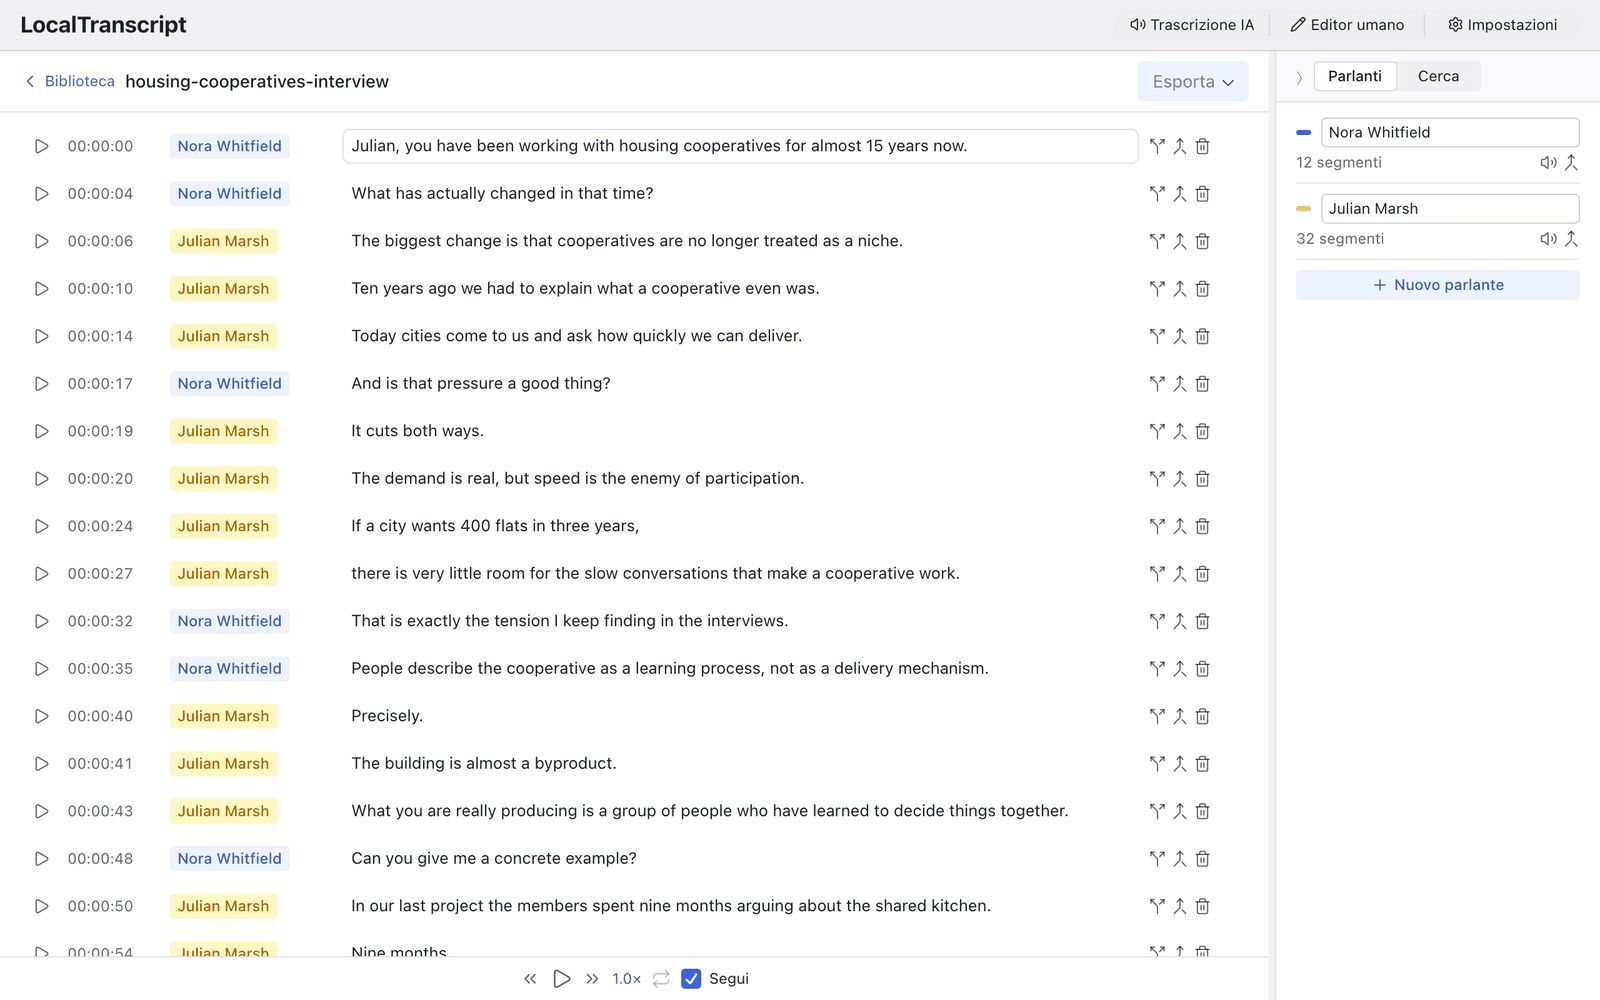
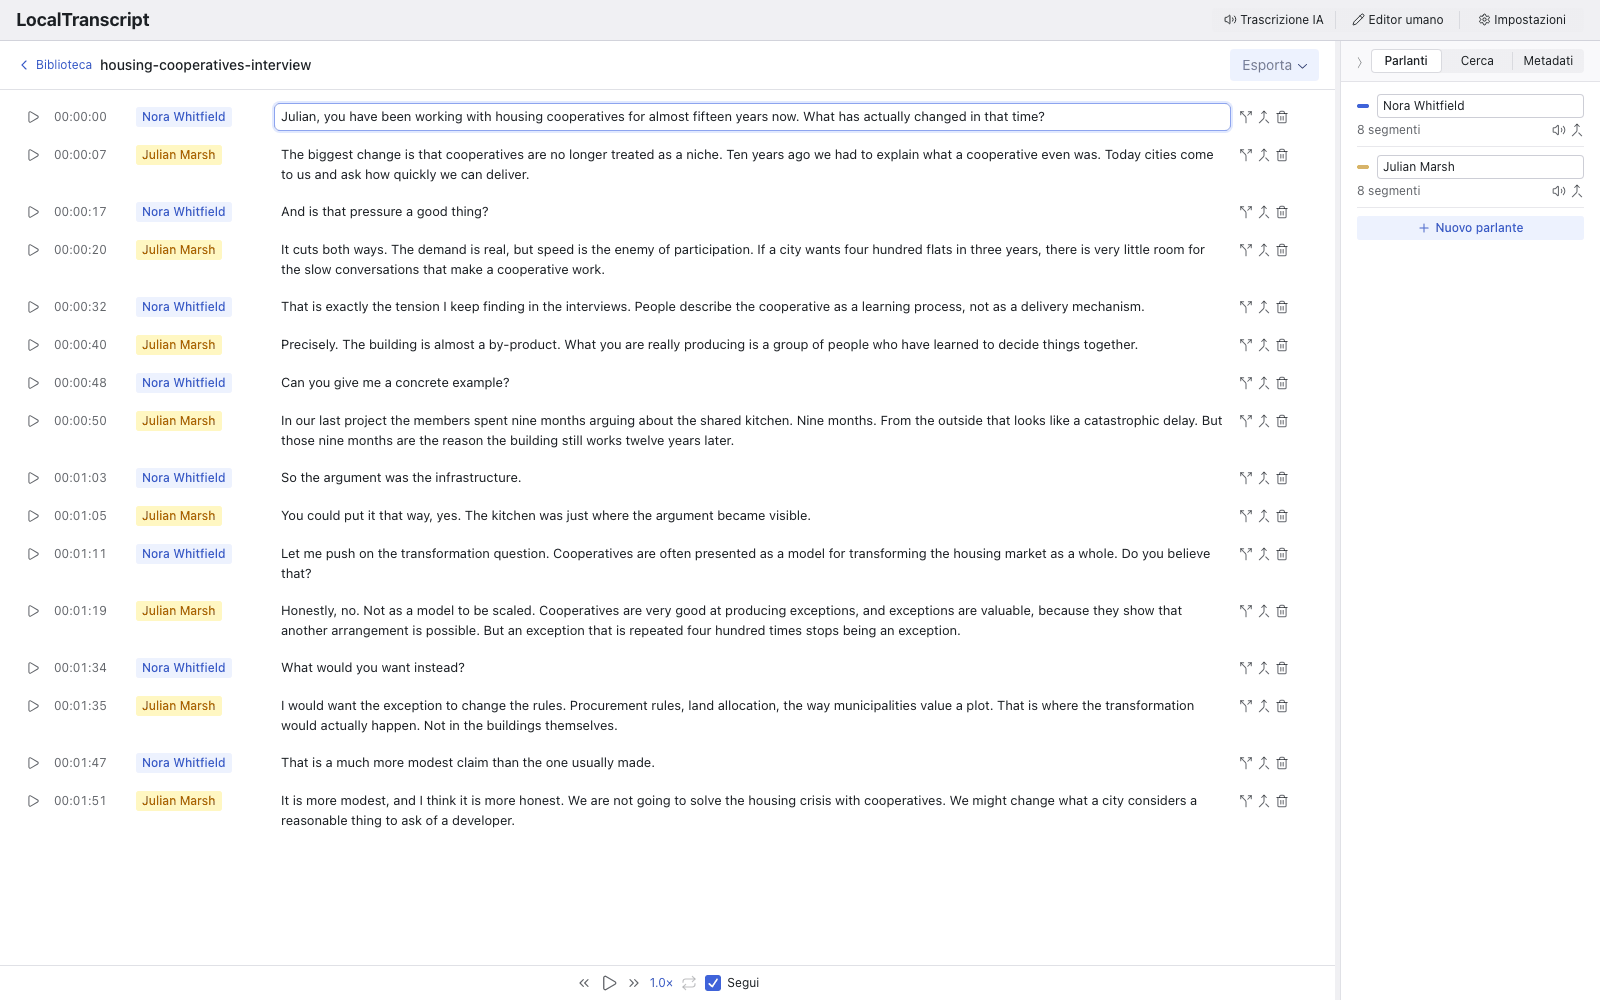
editor: Seitenleisten-Tabs passen in die Spalte (16-px-Rand, Knöpfe teilen sich die Breite, «Sprec…»/«Meta…» statt Überlauf); Website: alle Editor-Bilder mit den drei Tabs neu (hero, edit, find, export, video, zotero × 4 Sprachen)
Claude-Session: https://claude.ai/code/session_01VhoDoDyamQwRzZ3dqypMTk

diff --git a/frontend/src/components/ui.tsx b/frontend/src/components/ui.tsx
@@ -814,15 +814,20 @@ export function SearchField({ value, onChange, placeholder }: {
 }
 
 /** Segment-Umschalter (Quelle wählen, Geltungsbereich …). */
-export function SegTabs({ value, onChange, options }: {
+export function SegTabs({ value, onChange, options, fit }: {
   value: string; onChange: (v: string) => void;
+  /** In eine schmale Kopfzeile einpassen (LocalTranscript 2026-09-11):
+      volle Breite, die Knöpfe teilen sich den Platz, zu lange
+      Beschriftungen enden in «…» statt aus dem Panel zu laufen. */
+  fit?: boolean;
   // icon optional (2026-08-07, Textmengen-Switch im Fragen-Tab): Icon
   // und/oder Label; title trägt die Erklärung (Tooltip + a11y).
   options: { value: string; label: string; icon?: IconName;
              title?: string }[];
 }) {
   return (
-    <SegmentedControl.Root value={value} onValueChange={onChange} size="1">
+    <SegmentedControl.Root value={value} onValueChange={onChange} size="1"
+                           className={fit ? "ui-segtabs-fit" : undefined}>
       {options.map((o) => (
         <SegmentedControl.Item key={o.value} value={o.value}
                                title={o.title} aria-label={o.title || o.label}>

diff --git a/frontend/src/styles.css b/frontend/src/styles.css
@@ -606,3 +606,17 @@ body { margin: 0; background: var(--gray-1); }
   background: var(--color-panel-solid);
   box-shadow: 0 0 0 2px var(--accent-a4);
 }
+
+/* SegTabs in einer schmalen Kopfzeile (Editor-Seitenspalte): die
+   Knöpfe teilen sich die Breite, Beschriftungen werden mit «…»
+   gekürzt statt über den Panelrand zu laufen (User 2026-09-11). Radix
+   legt im Label (flex) zwei Spans übereinander — aktiv im Fluss,
+   inaktiv absolut; das Label bleibt flex, nur Überlauf und Ellipse
+   kommen dazu. */
+.ui-segtabs-fit { display: flex; width: 100%; min-width: 0; }
+.ui-segtabs-fit .rt-SegmentedControlItem { flex: 1 1 0; min-width: 0; }
+.ui-segtabs-fit .rt-SegmentedControlItemLabel { min-width: 0; overflow: hidden; }
+.ui-segtabs-fit .rt-SegmentedControlItemLabelActive,
+.ui-segtabs-fit .rt-SegmentedControlItemLabelInactive {
+  max-width: 100%; overflow: hidden; text-overflow: ellipsis;
+  white-space: nowrap; }

diff --git a/frontend/src/modules/EditorModule.tsx b/frontend/src/modules/EditorModule.tsx
@@ -614,7 +614,7 @@ export default function EditorModule({ id, onExit }: {
       <SidePanel side="right" storageKey={KEYS.sidebarSprecher}
                  defaultWidth={260} resizable
                  title={
-                   <SegTabs value={seitenTab}
+                   <SegTabs value={seitenTab} fit
                      onChange={(v) => {
                        sset(KEYS.editorSeitenTab, v);
                        setSeitenTab(v as SeitenTab);
